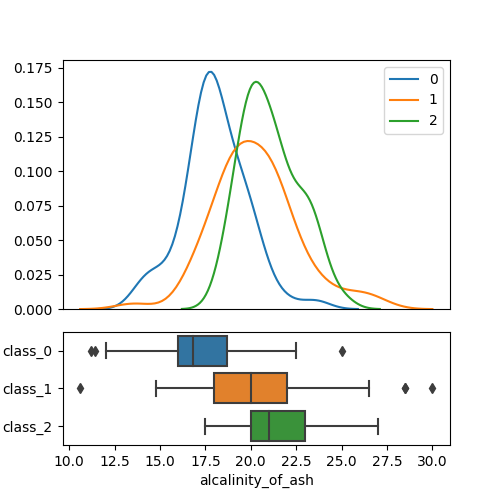
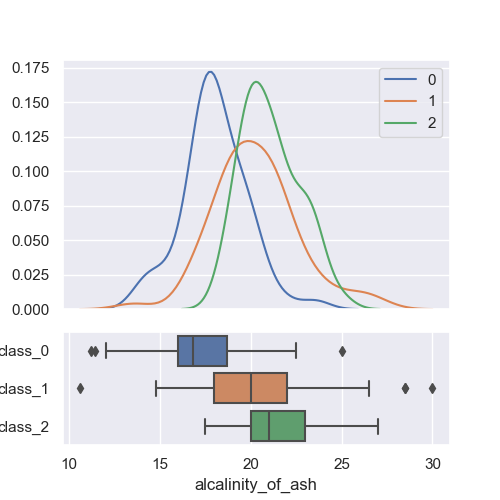
Some new histogram graphs Cleanup project.py

diff --git a/project.py b/project.py
@@ -12,13 +12,11 @@ import pandas as pd
 from sklearn.datasets import load_wine
 from sklearn.metrics import f1_score
 import seaborn as sea
-import matplotlib.pyplot as plt
 from sklearn.svm import SVC
 from sklearn.model_selection import train_test_split
 from sklearn.decomposition import PCA
 import matplotlib.pyplot as plt
 import matplotlib.gridspec as gridspec
-from sklearn.linear_model import LogisticRegression
 
 sample_count = 50 #50
 range_count = 20 #20
@@ -57,10 +55,7 @@ def performance(lr, X_test, y_test):
 
 
 def removeColumn(df, column, index):
-    # print(f"--------------------- Dropping : {column}  -----------------------")
-
-    # df = pd.DataFrame(data=data['data'],
-    #                   columns=data['feature_names'])
+    # drop feature
     df.drop(column, axis=1, inplace=True)
     # print(f"Columns : {df.columns}")
     for j in range(0, range_count):
@@ -77,12 +72,6 @@ def removeColumn(df, column, index):
            print("Average Overall f1-score = ", average / sample_count)
            x[j][index] = (average / sample_count)
 
-           # print(x)
-
-    # performance(lr, X_test, y_test)
-    # visualize(df)
-
-
 def visualize(df):
     # Visualizing structure of dataset in 2D
     if df.count().size > 2:
@@ -93,16 +82,13 @@ def visualize(df):
         plt.show()
     plt.close()
 
-
-def reinitData(df):
-    # data = load_wine()
-    df = pd.DataFrame(data=data['data'],
-                      columns=data['feature_names'])
-
-
 # -----------------------------------------------
 # 1- Load wine dataset
 # -----------------------------------------------
+
+print("------------------------------------------------------------------")
+print(" Load wine dataset")
+print("------------------------------------------------------------------")
 
 raw_data = load_wine()
 df = pd.DataFrame(data=raw_data['data'],
@@ -113,60 +99,66 @@ data = df
 # -----------------------------------------------
 # 2- visualization of the wine dataset correlation
 # -----------------------------------------------
-# sea.set()
-#
-# fig, ax = plt.subplots(figsize=(20,20))
-# sea.heatmap(df.corr(), annot=True, cmap='summer')
-# ax.set_xticklabels(df.columns)
-# ax.set_yticklabels(df.columns)
-# b, t = plt.ylim() # discover the values for bottom and top
-# b += 0.5 # Add 0.5 to the bottom
-# t -= 0.5 # Subtract 0.5 from the top
-# plt.ylim(b, t) # update the ylim(bottom, top) values
-# plt.savefig('plots//wine_correlation_heatmap.png')
-#
-# plt.clf()
 
-# for i in raw_data['feature_names']:
-#     sea.distplot(data['alcohol'][data.target==i],
-#                  kde=1,label='{}'.format(i))
-#
-# plt.legend()
-# plt.show()
+print("------------------------------------------------------------------")
+print(" correlation heatmap")
+print("------------------------------------------------------------------")
+
+sea.set()
+
+fig, ax = plt.subplots(figsize=(20,20))
+sea.heatmap(df.corr(), annot=True, cmap='autumn')
+ax.set_xticklabels(df.columns)
+ax.set_yticklabels(df.columns)
+b, t = plt.ylim() # discover the values for bottom and top
+b += 0.5 # Add 0.5 to the bottom
+t -= 0.5 # Subtract 0.5 from the top
+plt.ylim(b, t) # update the ylim(bottom, top) values
+plt.savefig('plots//wine_correlation_heatmap.png')
+
+plt.clf()
+plt.close()
 
 # We'll use Seaborn's .kdeplot() method so we can cleanly distinguish each class per feature
+print("------------------------------------------------------------------")
+print(" kdeplot to show class distribution per feature")
+print("------------------------------------------------------------------")
 
-# features = pd.DataFrame(data=raw_data['data'],columns=raw_data['feature_names'])
-# data = features
-# data['target']=raw_data['target']
-# data['class']=data['target'].map(lambda ind: raw_data['target_names'][ind])
-# data.head()
-#
-# os.makedirs('plots/class_feature/', exist_ok=True)
-#
-# for feature in raw_data['feature_names']:
-#     print(feature)
-#     fig, ax = plt.subplots(figsize=(5, 5))
-#     gs1 = gridspec.GridSpec(3,1)
-#     ax1 = plt.subplot(gs1[:-1])
-#     ax2 = plt.subplot(gs1[-1])
-#     sea.boxplot(x=feature, y='class', data=data, ax=ax2)
-#     sea.kdeplot(data[feature][data.target==0],ax=ax1,label='0')
-#     sea.kdeplot(data[feature][data.target==1],ax=ax1,label='1')
-#     sea.kdeplot(data[feature][data.target==2],ax=ax1,label='2')
-#     ax2.yaxis.label.set_visible(False)
-#     ax1.xaxis.set_visible(False)
-#
-#     if feature == 'od280/od315_of_diluted_wines':
-#         plt.savefig(f'plots/class_feature/od280_class.png')
-#     else:
-#         plt.savefig(f'plots/class_feature/{feature}_class.png')
-#
-#     plt.close(fig)
+features = pd.DataFrame(data=raw_data['data'],columns=raw_data['feature_names'])
+data = features
+data['target']=raw_data['target']
+data['class']=data['target'].map(lambda ind: raw_data['target_names'][ind])
+data.head()
+
+os.makedirs('plots/class_feature/', exist_ok=True)
+
+for feature in raw_data['feature_names']:
+    print(feature)
+    fig, ax = plt.subplots(figsize=(5, 5))
+    gs1 = gridspec.GridSpec(3,1)
+    ax1 = plt.subplot(gs1[:-1])
+    ax2 = plt.subplot(gs1[-1])
+    sea.boxplot(x=feature, y='class', data=data, ax=ax2)
+    sea.kdeplot(data[feature][data.target==0],ax=ax1,label='0')
+    sea.kdeplot(data[feature][data.target==1],ax=ax1,label='1')
+    sea.kdeplot(data[feature][data.target==2],ax=ax1,label='2')
+    ax2.yaxis.label.set_visible(False)
+    ax1.xaxis.set_visible(False)
+
+    if feature == 'od280/od315_of_diluted_wines':
+        plt.savefig(f'plots/class_feature/od280_class.png')
+    else:
+        plt.savefig(f'plots/class_feature/{feature}_class.png')
+
+    plt.close(fig)
 
 # -----------------------------------------------
 # 3- cleanup of the wine dataset, extracting data
 # -----------------------------------------------
+
+print("------------------------------------------------------------------")
+print(" Extracting features that have low correlation")
+print("------------------------------------------------------------------")
 
 correlation_list = []
 positions = []
@@ -184,6 +176,7 @@ for x in df.corr().values:
         j = j + 1
     j = 0
     i = i + 1
+
 print("------------------------------------------------------------------")
 print(correlation_list)  # values
 print(positions)  # tuples
@@ -222,6 +215,7 @@ print(matches)
 # 3- classification regression on the wine dataset
 # -----------------------------------------------
 
+# Splitting features and target datasets into: train and test
 X = raw_data.data
 y = raw_data.target
 
@@ -229,6 +223,9 @@ data = raw_data
 
 # Splitting features and target datasets into: train and test
 # initial overall-f1 with no dropped feature
+print("------------------------------------------------------------------")
+print(" Initial overall calculation features (baseline all features)")
+print("------------------------------------------------------------------")
 all = []
 average = 0.0
 for i in range(0, range_count):
@@ -251,54 +248,46 @@ print("Total Average Overall f1-score = ", count / range_count)
     # performance(lr, X_test, y_test)
     # visualize(df)
 
-# for i in range(0, range_count):
-#     all[i] = max
-#
-# print(all)
-# visualize(df)
-
 # single removal of features
-# all_features = []
-# x = np.zeros((range_count, 13))
-# print("single removal of features")
-# count = 0
-# for column in matches:
-#    df = pd.DataFrame(data=data['data'],
-#                   columns=data['feature_names'])
-#    print("--------------------- Dropping feature : " + column[1])
-#    removeColumn(df, column[1], count)
-#    all_features.append(f'{column[1]}')
-#    count += 1
-#
-# single_removal_results = pd.DataFrame(data=x,
-#                        columns=all_features)
-#
-# print(single_removal_results)
-#
-# single_removal_results.insert(0,'All', all)
-#
-# tsint = single_removal_results.interpolate(method='cubic')
-#
-# fig, ax = plt.subplots(figsize=(20,10))
-# pal = sea.cubehelix_palette(8, rot=-.10, dark=.3)
-# ax.set_xticklabels(df.columns, rotation=45)
-# # Show each distribution with both violins and points
-# sea.violinplot(data=tsint, palette=pal, inner="points")
-#
-# os.makedirs('plots/Violinplots/', exist_ok=True)
-# plt.savefig(f'plots/Violinplots/Single_removal_features.png', dpi=300)
-#
-# fig, axes = plt.subplots(1, 1, figsize=(20, 10))
-# axes.plot(tsint)
-# axes.set_title('Single feature removal')
-# axes.set_xlabel('Sample #')
-# axes.set_ylabel('f1-score')
-# axes.legend(all_features)
-#
-# plt.savefig(f'plots/Single_removal_features.png', dpi=300)
+all_features = []
+x = np.zeros((range_count, 13))
+print("------------------------------------------------------------------")
+print(" Single removal of features")
+print("------------------------------------------------------------------")
+count = 0
+for column in matches:
+   df = pd.DataFrame(data=data['data'],
+                  columns=data['feature_names'])
+   print("--------------------- Dropping feature : " + column[1])
+   removeColumn(df, column[1], count)
+   all_features.append(f'{column[1]}')
+   count += 1
+
+single_removal_results = pd.DataFrame(data=x,
+                       columns=all_features)
+
+print(single_removal_results)
+
+single_removal_results.insert(0,'All', all)
+
+tsint = single_removal_results.interpolate(method='linear')
+
+print("------------------------------------------------------------------")
+print(" Generating violinplot for single removal")
+print("------------------------------------------------------------------")
+fig, ax = plt.subplots(figsize=(20,10))
+pal = sea.cubehelix_palette(8, rot=-.10, dark=.3)
+ax.set_xticklabels(df.columns, rotation=45)
+# Show each distribution with both violins and points
+sea.violinplot(data=tsint, palette=pal, inner="points")
+
+os.makedirs('plots/Violinplots/', exist_ok=True)
+plt.savefig(f'plots/Violinplots/Single_removal_features.png', dpi=300)
 
 # for feature in matches incremental removal of features
-# print("incremental removal of features")
+print("------------------------------------------------------------------")
+print(" Incremental removal of features")
+print("------------------------------------------------------------------")
 features = []
 x = np.zeros((range_count, 7))
 count = 0
@@ -319,8 +308,12 @@ incremental_removal_results.insert(0,'All', all)
 
 print(incremental_removal_results)
 
-tsint = incremental_removal_results.interpolate(method='cubic')
+tsint = incremental_removal_results.interpolate(method='linear')
 
+print("------------------------------------------------------------------")
+print(" Generating violinplot for incremental removal of features")
+print("------------------------------------------------------------------")
+# analysis of the incremental removal of features
 # Use violin plot to get a custom sequential palette
 fig, ax = plt.subplots(figsize=(10,10))
 pal = sea.cubehelix_palette(8, rot=-.7, dark=.3)
@@ -331,28 +324,44 @@ os.makedirs('plots/Violinplots/', exist_ok=True)
 plt.savefig(f'plots/Violinplots/Incremental_removal_features.png', dpi=300)
 plt.close()
 
-fig, axes = plt.subplots(1, 1, figsize=(20, 10))
-axes.plot(tsint)
-axes.set_title('Incremental feature removal')
-axes.set_xlabel('Sample #')
-axes.set_ylabel('f1-score')
-axes.legend(features)
-
-plt.savefig(f'plots/Incremental_removal_features.png', dpi=300)
-plt.close()
-
 # bar plot to show the mean value of each features
 mean = tsint.mean()
 print(mean)
 
+print("------------------------------------------------------------------")
+print("generating histogram plot from mean values")
+print("------------------------------------------------------------------")
+
 fig, axes = plt.subplots(1, 1, figsize=(5, 5))
-plt.ylim(0.91, 0.98)
+plt.ylim(0.91, 0.97)
 axes.set_xticklabels(tsint.columns, rotation=45)
-axes.set_title('Histogram mean feature removal')
+axes.set_title('Mean value of incremantal feature removal')
 axes.set_xlabel('Feature')
 axes.set_ylabel('f1-score')
 mean.plot.bar()
 
 plt.savefig(f'plots/Histogram_mean_values.png', dpi=300)
-
 plt.close()
+
+print("------------------------------------------------------------------")
+print("generating histogram plot for percentage variation")
+print("------------------------------------------------------------------")
+# getting percent difference between initial and subsequent features
+results = []
+for iter in range(0, 8):
+    results.append(((mean[iter] - mean[0]) / 2) * 100)
+
+print(results)
+
+# new dataframe from the results
+df=pd.DataFrame(data=results)
+print(df)
+
+fig, axes = plt.subplots(1, 1, figsize=(5, 5))
+axes.set_title('Percentage variation of incremental feature removal')
+axes.set_xlabel('Feature')
+axes.set_ylabel('percent variation')
+df.plot.bar()
+
+plt.savefig(f'plots/Histogram_percentage_variation_values.png', dpi=300)
+
